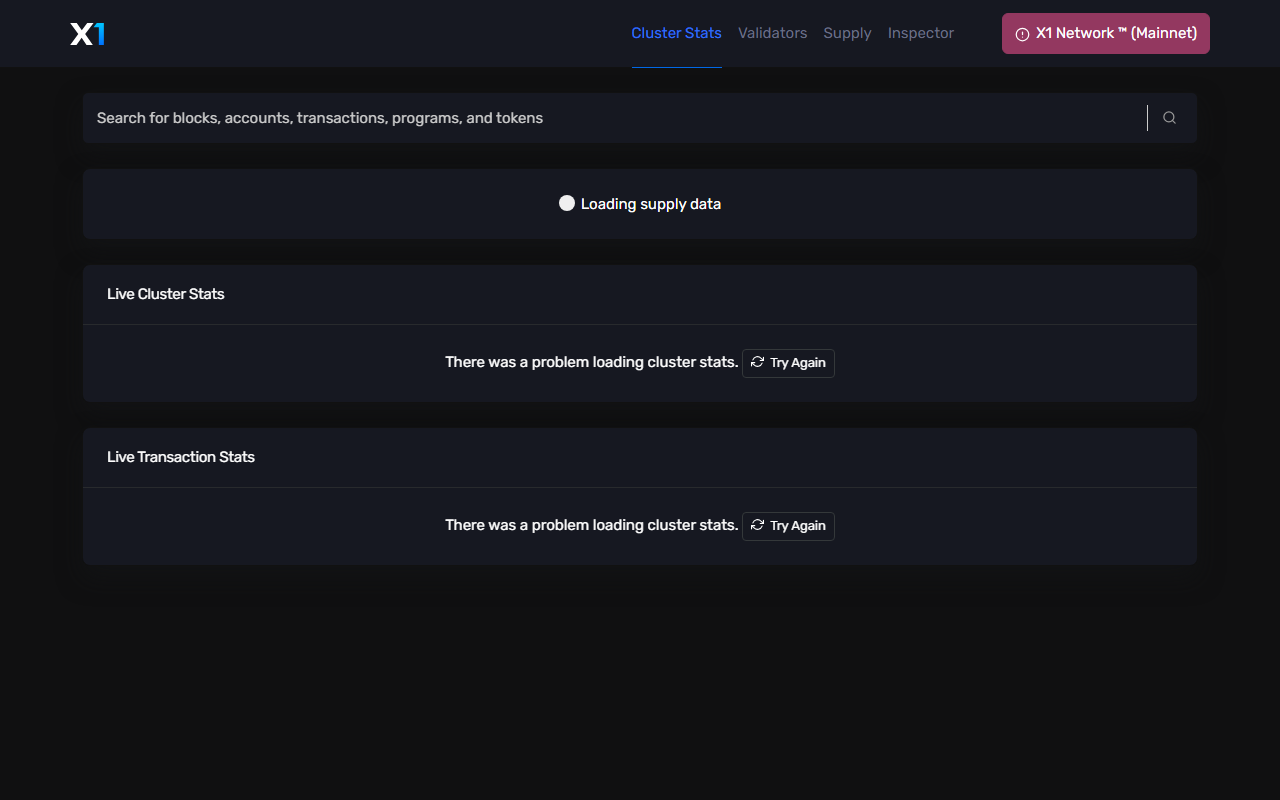
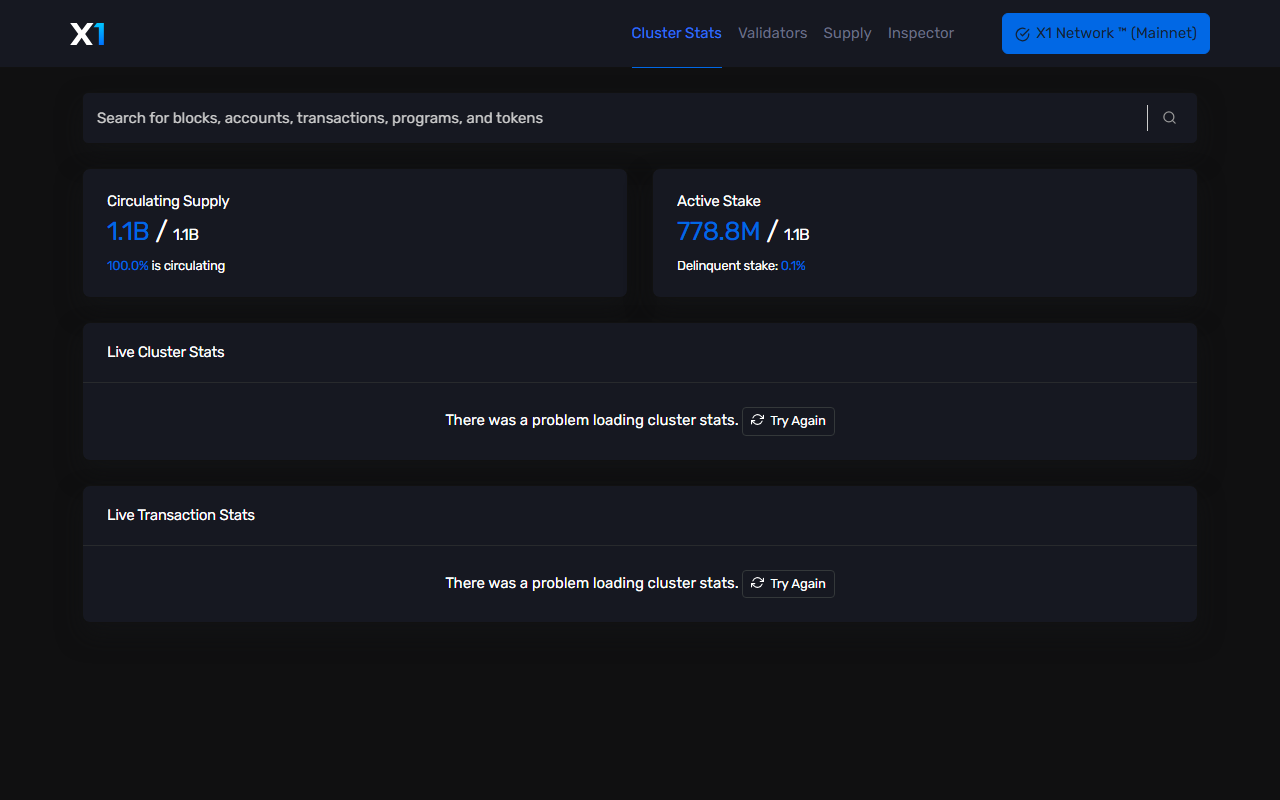
Ninja at 50%; single focused landmark lit; networkidle waits + explorer retry action

diff --git a/components/three/Planet.tsx b/components/three/Planet.tsx
@@ -25,7 +25,6 @@ const ACC = 2.2; // rad/s² from held keys
 const DAMP = 2.8; // exponential damping → inertia / glide
 const MAX_SPEED = 0.7; // rad/s — a stroll, not a sprint (panel keeps up)
 const NEAR_ANGLE = 0.28; // rad from the top at which a region counts as "near"
-const ZONE_ANGLE = 0.6; // rad — landmarks this close to the player light up
 const SITE_SCALE = 0.44; // 55 landmarks — keep them small so the world breathes
 
 // Classic additive fresnel glow — the planet's atmosphere.
@@ -284,10 +283,13 @@ function RegionSite({
   index: number;
 }) {
   const near = useWorld((s) => s.nearId === region.id);
+  // lit = the one project the side panel is currently showing
+  const lit = useWorld(
+    (s) => (s.selectedId ?? s.nearId ?? s.hoveredId ?? s.closestId) === region.id,
+  );
   const select = useWorld((s) => s.select);
   const setHoveredId = useWorld((s) => s.setHovered);
   const [hovered, setHovered] = useState(false);
-  const [inZone, setInZone] = useState(false);
   useCursor(hovered);
   const site = useRef<THREE.Group>(null);
   const pulse = useRef<THREE.Group>(null);
@@ -298,18 +300,10 @@ function RegionSite({
   useFrame((state) => {
     const t = state.clock.elapsedTime;
 
-    // near landmark pulses gently
+    // the focused landmark pulses gently
     if (pulse.current) {
-      const s = near ? 1 + Math.sin(t * 6 + index) * 0.05 : 1;
+      const s = lit ? 1 + Math.sin(t * 6 + index) * 0.05 : 1;
       pulse.current.scale.setScalar(s);
-    }
-
-    // landmarks light up as the player approaches (hysteresis; caps light count)
-    if (site.current) {
-      site.current.getWorldPosition(_v);
-      const angle = Math.acos(THREE.MathUtils.clamp(_v.normalize().dot(UP), -1, 1));
-      const show = angle < (inZone ? ZONE_ANGLE + 0.1 : ZONE_ANGLE);
-      if (show !== inZone) setInZone(show);
     }
   });
 
@@ -338,32 +332,27 @@ function RegionSite({
           <meshBasicMaterial
             color={region.accent}
             transparent
-            opacity={near ? 0.28 : 0.1}
+            opacity={lit ? 0.3 : 0.1}
             blending={THREE.AdditiveBlending}
             depthWrite={false}
           />
         </mesh>
         <mesh position={[0, 0.009, 0]} rotation={[-Math.PI / 2, 0, 0]}>
           <torusGeometry args={[0.18, 0.006, 8, 40]} />
-          <meshBasicMaterial color={region.accent} transparent opacity={near ? 1 : 0.45} />
+          <meshBasicMaterial color={region.accent} transparent opacity={lit ? 1 : 0.4} />
         </mesh>
         {/* generous invisible hit target */}
         <mesh position={[0, 0.18, 0]} visible={false}>
           <sphereGeometry args={[0.24, 8, 8]} />
         </mesh>
-        {/* accent light only while the player is in the zone (caps light count) */}
-        {inZone && (
-          <pointLight
-            position={[0, 0.35, 0]}
-            color={region.accent}
-            distance={1.1}
-            intensity={near ? 1.8 : 0.7}
-          />
+        {/* exactly ONE landmark is lit: the one in the side panel */}
+        {lit && (
+          <pointLight position={[0, 0.35, 0]} color={region.accent} distance={1.6} intensity={2} />
         )}
       </group>
 
       {/* tiny nameplate — focused landmark only */}
-      {near && (
+      {lit && (
         <Html position={[0, 0.52, 0]} center distanceFactor={10} zIndexRange={[30, 0]}>
           <div className="nameplate">{region.name}</div>
         </Html>

diff --git a/scripts/check-sites.js b/scripts/check-sites.js
@@ -29,6 +29,18 @@ const SITE_ACTIONS = {
     await page.mouse.click(640, 400);
     await page.waitForTimeout(2500);
   },
+  // explorer.x1.xyz data fetches can fail on first load — hit "Try Again"
+  "explorer.x1.xyz": async (page) => {
+    await page.waitForTimeout(4000);
+    for (const b of await page.getByRole("button", { name: /try again/i }).all()) {
+      try {
+        await b.click({ timeout: 1000 });
+      } catch {
+        // gone already
+      }
+    }
+    await page.waitForTimeout(6000);
+  },
 };
 
 // keep in sync with lib/regions.ts
@@ -186,8 +198,13 @@ async function main() {
         }
       }
       const code = res ? res.status() : 0;
-      // give SPAs a moment to paint
-      await page.waitForTimeout(3500);
+      // wait for data fetches to settle (dashboards/explorers), then paint
+      try {
+        await page.waitForLoadState("networkidle", { timeout: 12000 });
+      } catch {
+        // busy sites never go idle — proceed anyway
+      }
+      await page.waitForTimeout(4500);
       ok = code > 0 && code < 400;
       note = `HTTP ${code}`;
       if (ok) {

diff --git a/components/three/Character.tsx b/components/three/Character.tsx
@@ -89,7 +89,7 @@ export default function Character() {
   });
 
   return (
-    <group position={[0, PLANET_RADIUS - 0.04, 0]} scale={0.9}>
+    <group position={[0, PLANET_RADIUS - 0.02, 0]} scale={0.5}>
       {/* hero lighting — the ninja must pop against the dark world */}
       <pointLight position={[0.5, 0.9, 0.9]} intensity={1.8} distance={2.8} color="#dbe6ff" />
       <pointLight position={[-0.6, 0.7, -0.8]} intensity={1.3} distance={2.6} color="#2f6bff" />
